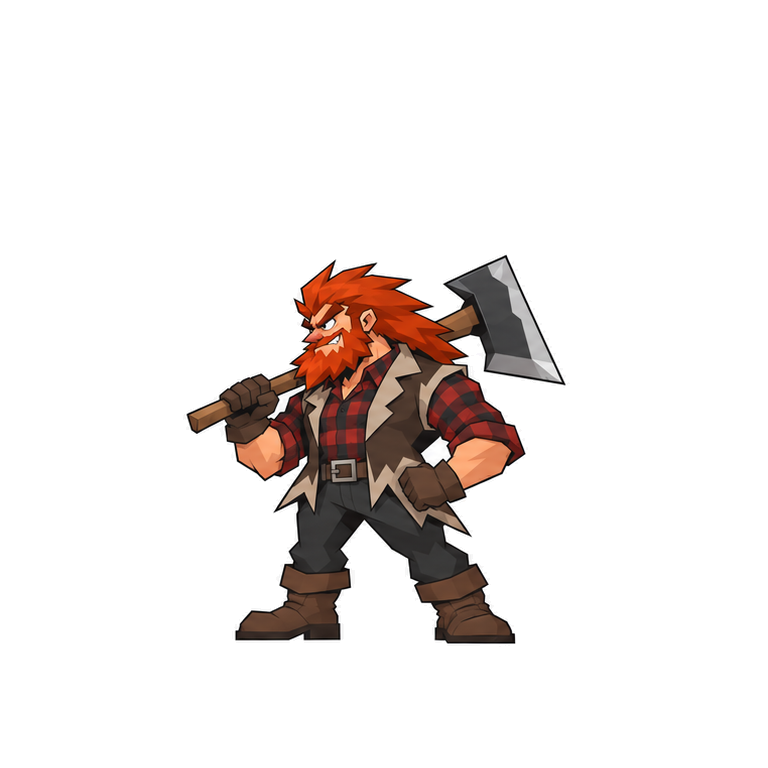
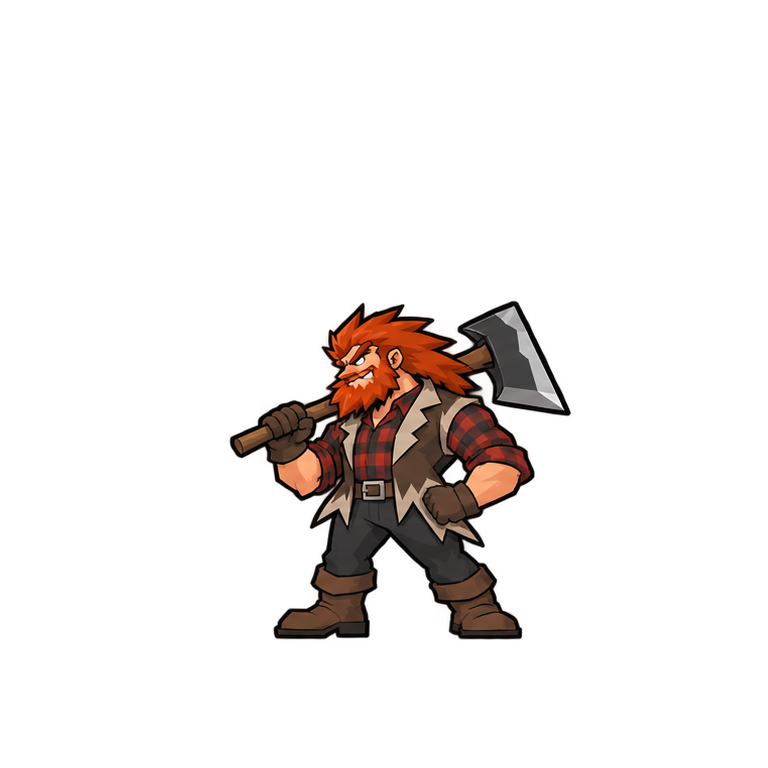
Clean lumberjack outlines and alpha holes; normalize forest monster scale and center two-unit formations

Changed region(s): [[0.2188, 0.3125, 0.75, 0.8438]]

diff --git a/docs/FOREST_ART_SCALE_LAYOUT.md b/docs/FOREST_ART_SCALE_LAYOUT.md
@@ -1,0 +1,9 @@
+# Arte, escala e formação das florestas
+
+O lenhador recebeu oito quadros limpos via imagegen: contorno escuro, remoção da borda branca e transparência nos vãos entre braços e tronco. O atlas original gerado e seu prompt estão em tools/art_sources/phase1. O script tools/register_lumberjack_clean.gd só recorta e registra os pixels em telas de 768×768, alinhando o chão em y=640; não recolore a arte. Os oito PNGs de runtime continuam nos mesmos caminhos.
+
+A referência de escala passa a ser o maior lado visível da primeira pose de cada família de animação, em vez da altura do recorte original de importação. Todos os inimigos comuns das quatro florestas ocupam o mesmo limite visual; lobos compridos ficam com a mesma largura, sem distorcer suas proporções. Chefes mantêm fator 1,25. Quadros posteriores, efeitos e composição do grupo não alteram a escala. Idle e ataque possuem referências próprias para compensar a diferença de resolução das fontes de aves e guaxinim. A medição ignora alpha abaixo de 10%, sem alterar os pixels apresentados.
+
+Formação compartilhada por aliados e inimigos: uma unidade em 0,66; duas em 0,53/0,79; três em 0,40/0,66/0,92. Unidades derrotadas preservam o espaço durante o encontro. Projeção do chão, barras e hitboxes acompanham a formação.
+
+Validação em Godot 4.7.2: phase1_enemies (11.623 verificações); phase1_visual (74 verificações), também com renderização OpenGL em 540×960 e 1280×800; arena_equipment_layout aprovado nos layouts PC/mobile. Conferência de transparência, limites de escala, quadros de impacto e retorno ao idle. Não foi gerado APK nesta alteração.
